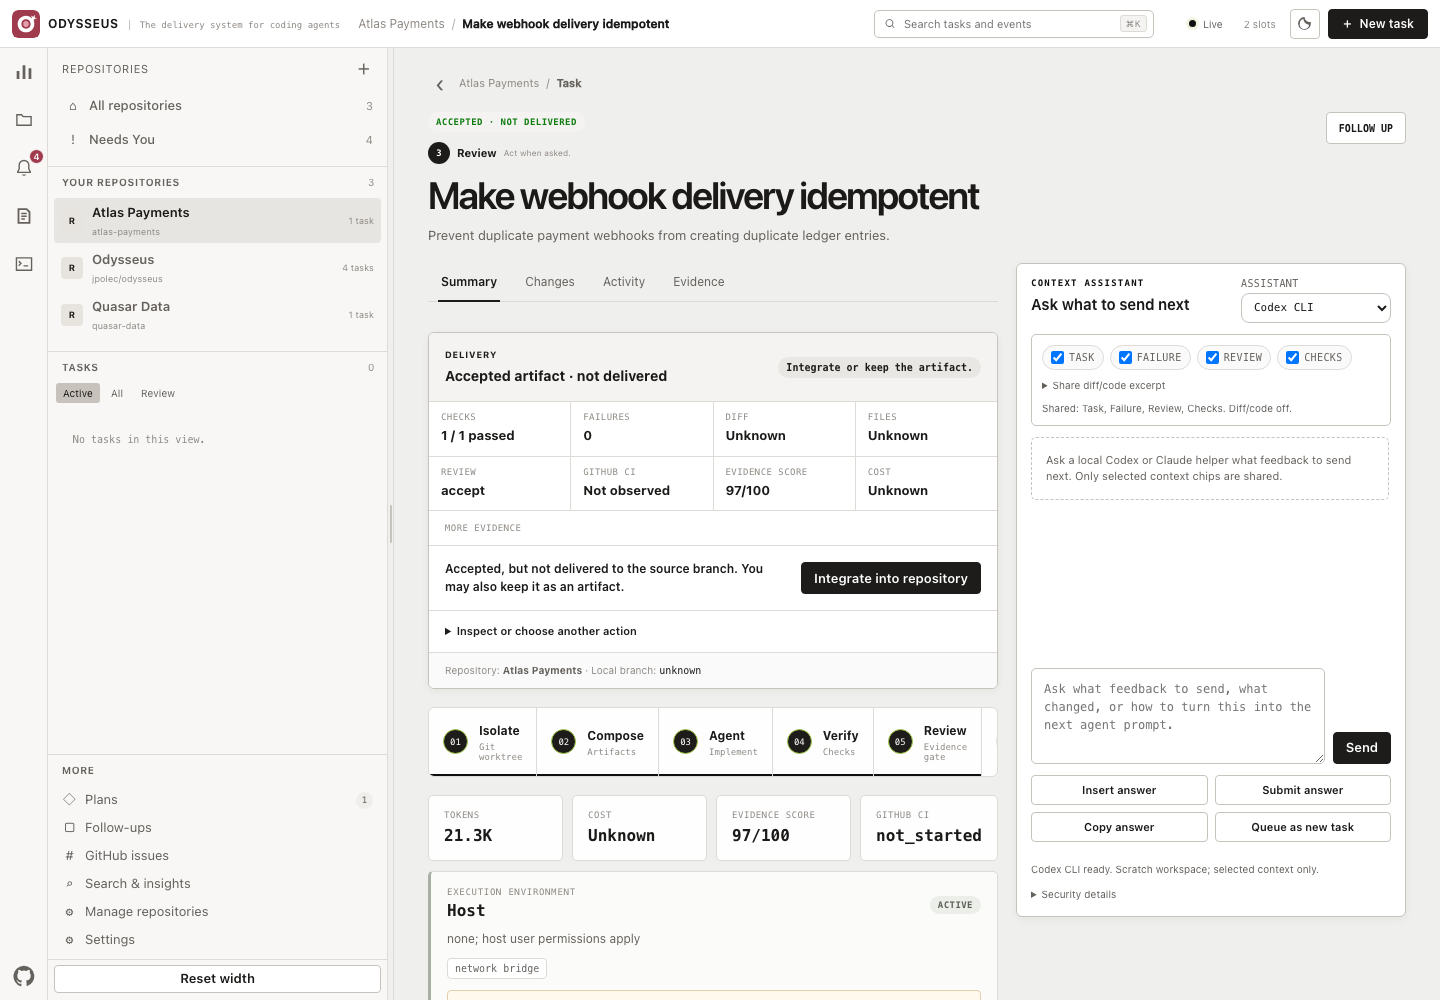
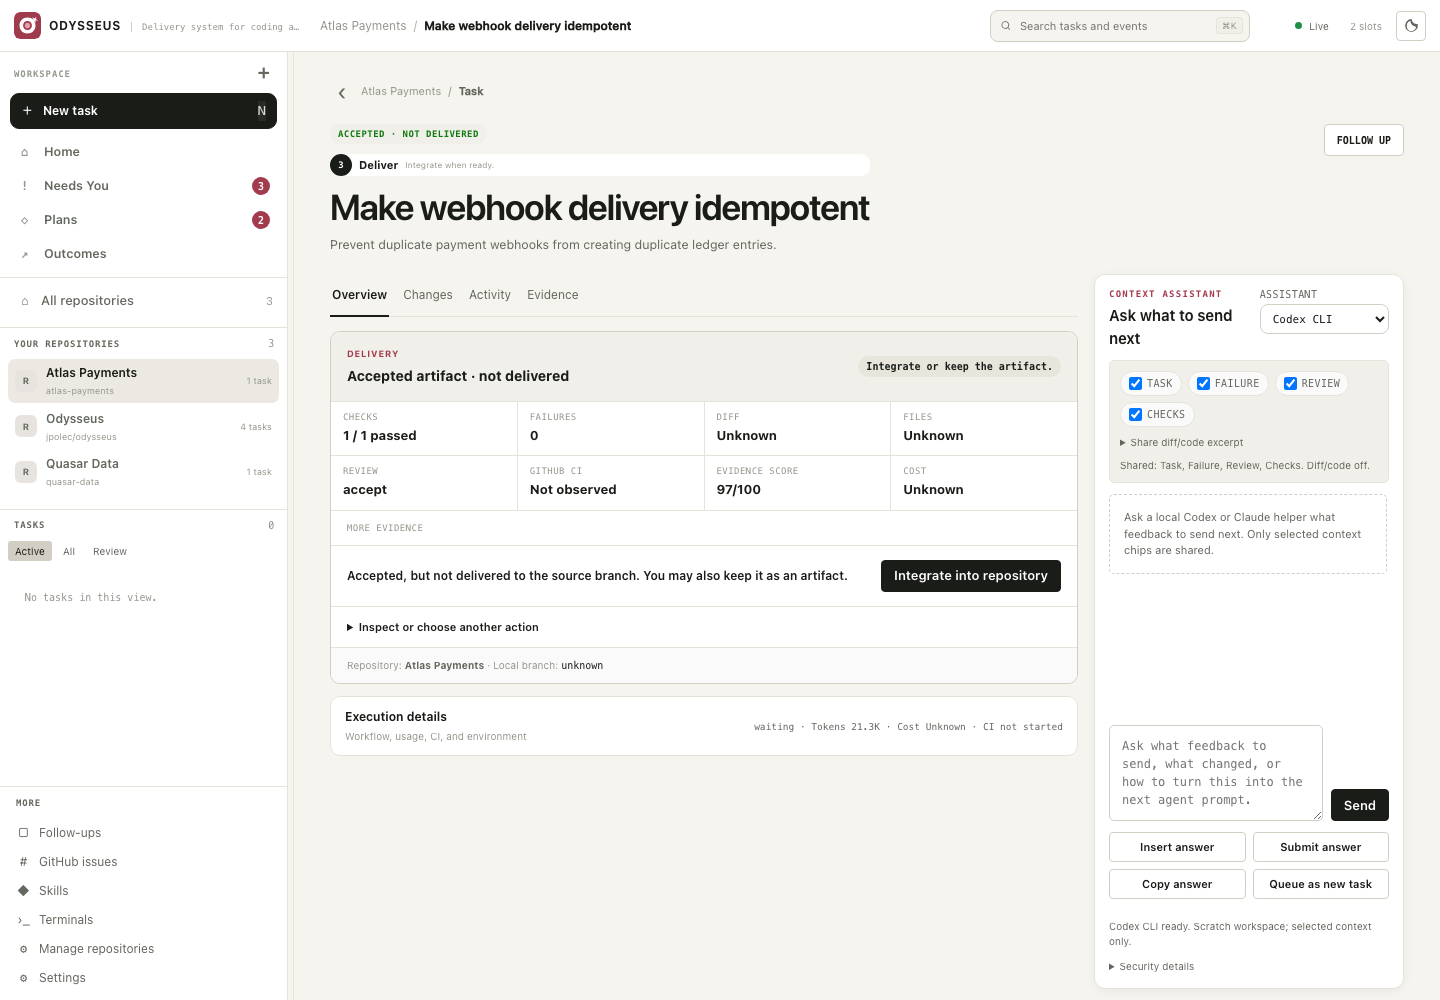
ui: publish the decision-first web experience

diff --git a/web/app.js b/web/app.js
@@ -784,11 +784,13 @@ function renderRepositoryStatus() {
   const known = new Set(nodes.flatMap((node) => [node.key, node.id].filter(Boolean)));
   const edgeCount = nodes.reduce((total, node) => total + (node.depends_on || []).filter((key) => known.has(key)).length, 0);
   $("#repositoryGraphCount").textContent = `${nodes.length} task${nodes.length === 1 ? "" : "s"} · ${edgeCount} edge${edgeCount === 1 ? "" : "s"}`;
-  $("#repositoryDependencyGraph").style.setProperty("--repo-graph-columns", String(maxDepth + 1));
-  $("#repositoryDependencyGraph").innerHTML = nodes.length ? nodes.map((node) => `
-    <button class="repository-graph-node repo-status-${node.status.toLowerCase()}" style="grid-column:${(depths.get(node.key) || 0) + 1}" ${node.id ? `data-status-run="${escapeHtml(node.id)}"` : "disabled"} type="button">
-      <span>${escapeHtml(node.status)}</span><strong>${escapeHtml(node.title)}</strong><small>${escapeHtml((node.depends_on || []).length ? `after ${node.depends_on.join(", ")}` : "root task")}</small>
-    </button>`).join("") : `<div class="empty-list">A task graph appears after you create a plan.</div>`;
+  $("#repositoryDependencyGraph").innerHTML = nodes.length ? Array.from({length: maxDepth + 1}, (_, depth) => `
+    <div class="repository-graph-column" aria-label="Dependency level ${depth + 1}">
+      ${nodes.filter((node) => (depths.get(node.key) || 0) === depth).map((node) => `
+        <button class="repository-graph-node repo-status-${node.status.toLowerCase()}" ${node.id ? `data-status-run="${escapeHtml(node.id)}"` : "disabled"} type="button">
+          <span>${escapeHtml(node.status)}</span><strong>${escapeHtml(node.title)}</strong><small>${escapeHtml((node.depends_on || []).length ? `after ${node.depends_on.join(", ")}` : "root task")}</small>
+        </button>`).join("")}
+    </div>`).join("") : `<div class="empty-list">A task graph appears after you create a plan.</div>`;
 
   const now = Date.now();
   const timeline = nodes.map((node) => {
@@ -807,7 +809,7 @@ function renderRepositoryStatus() {
   $("#repositoryGantt").innerHTML = timeline.slice(0, 18).map((node) => {
     const left = Math.max(0, Math.min(96, ((node.start - min) / range) * 100));
     const width = Math.max(4, Math.min(100 - left, ((node.end - node.start) / range) * 100));
-    return `<button class="gantt-row" ${node.id ? `data-status-run="${escapeHtml(node.id)}"` : "disabled"} type="button"><span title="${escapeHtml(node.title)}">${escapeHtml(node.title)}</span><i><b class="repo-status-${node.status.toLowerCase()}" style="left:${left.toFixed(2)}%;width:${width.toFixed(2)}%"></b></i><em>${escapeHtml(node.status)}</em></button>`;
+    return `<button class="gantt-row" ${node.id ? `data-status-run="${escapeHtml(node.id)}"` : "disabled"} type="button"><span title="${escapeHtml(node.title)}">${escapeHtml(node.title)}</span><svg class="gantt-track" viewBox="0 0 100 10" preserveAspectRatio="none" aria-hidden="true"><rect class="repo-status-${node.status.toLowerCase()}" x="${left.toFixed(2)}" y="0" width="${width.toFixed(2)}" height="10" rx="5"></rect></svg><em>${escapeHtml(node.status)}</em></button>`;
   }).join("") || `<div class="empty-list">The timeline appears after the first task.</div>`;
   $$('[data-status-run]').forEach((button) => button.addEventListener("click", () => selectRun(button.dataset.statusRun)));
 }
@@ -2333,16 +2335,17 @@ function renderEpicGraph(epic) {
   nodes.forEach(depthOf);
   const maxDepth = Math.max(...nodes.map((node) => depthMemo.get(node.key) || 0), 0);
   const edges = nodes.flatMap((node) => (node.depends_on || []).filter((parent) => keys.has(parent)).map((parent) => `${parent} -> ${node.key}`));
-  return `<div class="dag-graph" style="--dag-columns:${maxDepth + 1}" role="img" aria-label="Task dependency graph with ${nodes.length} tasks and ${edges.length} dependencies">
-    ${nodes.map((node) => {
-      const stateLabel = epicNodeState(node.run, node.task);
-      const parentRuns = (node.depends_on || []).map((key) => runByKey.get(key) || state.runs.find((run) => run.id === key)).filter(Boolean);
-      const waiting = stateLabel === "Blocked" ? parentRuns.find((run) => !["accepted", "pr_created", "completed"].includes(run.status)) : null;
-      return `<div class="dag-graph-node dag-state-${stateLabel.toLowerCase().replaceAll(" ", "-")}" style="grid-column:${(depthMemo.get(node.key) || 0) + 1}" tabindex="0">
-        <span>${escapeHtml(stateLabel)}</span><strong>${escapeHtml(node.title || node.key)}</strong><small>${escapeHtml(node.depends_on?.length ? `after ${node.depends_on.join(", ")}` : "root task")}</small>${waiting ? `<em>Waiting for ${escapeHtml(runTitle(waiting, waiting.id))}</em>` : ""}</div>`;
-    }).join("")}
-    ${edges.length ? `<p class="dag-edge-list">Edges: ${escapeHtml(edges.join("; "))}</p>` : `<p class="dag-edge-list">No dependencies.</p>`}
-  </div><ol class="dag-linear-fallback">${nodes.map((node) => `<li><strong>${escapeHtml(node.title || node.key)}</strong><span>${escapeHtml(epicNodeState(node.run, node.task))}</span><small>${escapeHtml(node.depends_on?.length ? `Depends on ${node.depends_on.join(", ")}` : "No dependencies")}</small></li>`).join("")}</ol>`;
+  return `<div class="dag-graph" role="img" aria-label="Task dependency graph with ${nodes.length} tasks and ${edges.length} dependencies">
+    ${Array.from({length: maxDepth + 1}, (_, depth) => `<div class="dag-column" aria-label="Dependency level ${depth + 1}">
+      ${nodes.filter((node) => (depthMemo.get(node.key) || 0) === depth).map((node) => {
+        const stateLabel = epicNodeState(node.run, node.task);
+        const parentRuns = (node.depends_on || []).map((key) => runByKey.get(key) || state.runs.find((run) => run.id === key)).filter(Boolean);
+        const waiting = stateLabel === "Blocked" ? parentRuns.find((run) => !["accepted", "pr_created", "completed"].includes(run.status)) : null;
+        return `<div class="dag-graph-node dag-state-${stateLabel.toLowerCase().replaceAll(" ", "-")}" tabindex="0">
+          <span>${escapeHtml(stateLabel)}</span><strong>${escapeHtml(node.title || node.key)}</strong><small>${escapeHtml(node.depends_on?.length ? `after ${node.depends_on.join(", ")}` : "root task")}</small>${waiting ? `<em>Waiting for ${escapeHtml(runTitle(waiting, waiting.id))}</em>` : ""}</div>`;
+      }).join("")}
+    </div>`).join("")}
+  </div>${edges.length ? `<p class="dag-edge-list">Edges: ${escapeHtml(edges.join("; "))}</p>` : `<p class="dag-edge-list">No dependencies.</p>`}<ol class="dag-linear-fallback">${nodes.map((node) => `<li><strong>${escapeHtml(node.title || node.key)}</strong><span>${escapeHtml(epicNodeState(node.run, node.task))}</span><small>${escapeHtml(node.depends_on?.length ? `Depends on ${node.depends_on.join(", ")}` : "No dependencies")}</small></li>`).join("")}</ol>`;
 }
 
 async function refreshEpics() {
@@ -2679,7 +2682,7 @@ function renderPortfolio(payload) {
   const failureTotal = failures.reduce((sum, row) => sum + Number(row.count || 0), 0);
   const failureMax = Math.max(1, ...failures.map((row) => Number(row.count || 0)));
   $("#portfolioFailureCount").textContent = `${failureTotal} failure${failureTotal === 1 ? "" : "s"}`;
-  $("#portfolioFailures").innerHTML = failures.length ? failures.map((row) => `<div class="failure-row"><div><strong>${escapeHtml(row.reason)}</strong><span>${escapeHtml(row.count)}</span></div><i><b style="width:${Math.round(Number(row.count || 0) / failureMax * 100)}%"></b></i></div>`).join("") : `<div class="portfolio-empty">No attributed failures in this window.</div>`;
+  $("#portfolioFailures").innerHTML = failures.length ? failures.map((row) => `<div class="failure-row"><div><strong>${escapeHtml(row.reason)}</strong><span>${escapeHtml(row.count)}</span></div><progress class="failure-meter" max="100" value="${Math.round(Number(row.count || 0) / failureMax * 100)}">${Math.round(Number(row.count || 0) / failureMax * 100)}%</progress></div>`).join("") : `<div class="portfolio-empty">No attributed failures in this window.</div>`;
   $("#portfolioBlockers").innerHTML = blocked.length ? blocked.map((item) => `<button class="portfolio-blocker" data-portfolio-run="${escapeHtml(item.run_id)}" type="button"><span class="mini-status status-${escapeHtml(item.status)}">${escapeHtml(item.status)}</span><strong>${escapeHtml(item.title)}</strong><small>${escapeHtml(item.reason)} · ${escapeHtml(projectName(projectById(item.project_id)) || "Repository")}</small><em>Open →</em></button>`).join("") : `<div class="portfolio-empty"><strong>Nothing is blocked.</strong><span>Odysseus will surface the next decision here.</span></div>`;
   $$('[data-portfolio-run]').forEach((button) => button.addEventListener("click", () => selectRun(button.dataset.portfolioRun)));
   $("#portfolioMethod").textContent = `Window starts ${new Date(payload.window?.starts_at).toLocaleString()}. ${payload.definitions?.autonomous_delivery_rate || ""} Cost: ${payload.definitions?.cost || "missing remains unknown"}.`;
@@ -3060,6 +3063,8 @@ async function runBrowserRegression() {
       const columns = getComputedStyle($(".repository-status-grid")).gridTemplateColumns.split(" ").map(Number.parseFloat);
       assert(columns.length >= 2 && columns[0] > columns[1], "dependency graph is wider than the Gantt timeline");
     }
+    assert(!$("#repositoryDependencyGraph [style]"), "repository graph does not depend on CSP-blocked inline styles");
+    assert($("#repositoryGantt .gantt-track"), "repository timeline uses CSP-safe SVG geometry");
   }
 
   $("#newTaskButton").click();
@@ -3163,6 +3168,7 @@ async function runBrowserRegression() {
   setView("epics");
   assert($("#epicsView").textContent.includes("Approve a graph before agents start."), "Plans concise header");
   assert($$("#epicList .epic-card").every((card) => card.querySelector(".epic-progress") && card.querySelector(".epic-graph-details")), "Plans expose compact progress and a drill-down graph");
+  assert(!$("#epicList [style]"), "Plan graphs do not depend on CSP-blocked inline styles");
   const proposedPlan = $$("#epicList .epic-card").find((card) => card.querySelector(".mini-status")?.textContent.trim() === "proposed");
   if (proposedPlan) assert(proposedPlan.querySelector(".epic-graph-details").open, "proposed plan opens the graph required for approval");
   setView("inbox");
@@ -3171,6 +3177,7 @@ async function runBrowserRegression() {
   await refreshInsights();
   assert($("#insightsView").querySelector("#portfolioKpis"), "Outcomes owns the engineering portfolio");
   assert($("#insightsView").textContent.includes("Delivery, not activity."), "Outcomes leads with delivered work");
+  assert(!$("#portfolioFailures [style]"), "failure attribution does not depend on CSP-blocked inline styles");
   assert($("#economicsFormula").textContent.includes("Expected cost"), "economics formula visible");
   assert($("#economicsFormula").textContent.includes("Sample"), "economics sample size visible");
   assert($("#economicsLeadTable").textContent.includes("Observed cost"), "lead economics table visible");

diff --git a/web/styles.css b/web/styles.css
@@ -245,16 +245,17 @@ pre { margin: 0; white-space: pre-wrap; }
 .dag { display: grid; gap: 8px; margin: 18px 0; padding: 14px; border: 1px solid var(--line); border-radius: 10px; background: linear-gradient(135deg, #f3f6ef, #f8faf5); }
 .dag-node { position: relative; display: flex; align-items: center; justify-content: space-between; gap: 18px; padding: 11px 12px 11px 15px; border: 1px solid var(--line); border-radius: 8px; background: var(--surface); box-shadow: 0 2px 6px rgba(29,38,24,.03); }.dag-node::before { position: absolute; top: 10px; bottom: 10px; left: 0; width: 3px; border-radius: 0 3px 3px 0; background: var(--accent-strong); content: ""; }
 .dag-node strong, .dag-node small { display: block; }.dag-node strong { font-size: 12px; }.dag-node small, .dag-node > span { margin-top: 3px; color: var(--faint); font: 9px var(--mono); }
-.dag-graph { display: grid; grid-template-columns: repeat(var(--dag-columns), minmax(128px,1fr)); gap: 10px 18px; margin: 16px 0; padding: 14px; border: 1px solid var(--line); border-radius: 6px; background: #fbfcfa; }
+.dag-graph { display: grid; grid-template-columns: repeat(auto-fit, minmax(160px,1fr)); gap: 18px; margin: 16px 0 8px; padding: 14px; border: 1px solid var(--line); border-radius: 6px; background: #fbfcfa; }
+.dag-column { display: grid; min-width: 0; align-content: start; gap: 10px; }
 .dag-graph-node { position: relative; min-width: 0; padding: 10px 11px; border: 1px solid var(--line); border-left: 3px solid var(--blue); border-radius: 5px; background: white; }
 .dag-graph-node::before { position: absolute; top: 50%; left: -19px; width: 18px; height: 1px; background: var(--line-bright); content: ""; }
-.dag-graph-node[style*="grid-column:1"]::before { display: none; }
+.dag-column:first-child .dag-graph-node::before { display: none; }
 .dag-graph-node span, .dag-graph-node strong, .dag-graph-node small, .dag-graph-node em { display: block; overflow: hidden; text-overflow: ellipsis; white-space: nowrap; }
 .dag-graph-node span { color: var(--faint); font: 700 9px var(--mono); text-transform: uppercase; }
 .dag-graph-node strong { margin-top: 4px; font-size: 12px; }
 .dag-graph-node small, .dag-graph-node em { margin-top: 4px; color: var(--muted); font-size: 10px; font-style: normal; }
 .dag-state-running { border-left-color: var(--cyan); }.dag-state-needs-you, .dag-state-blocked { border-left-color: var(--amber); }.dag-state-accepted { border-left-color: #107c10; }.dag-state-failed { border-left-color: var(--red); }
-.dag-edge-list { grid-column: 1 / -1; margin: 0; color: var(--faint); font: 9px/1.45 var(--mono); }
+.dag-edge-list { margin: 0; color: var(--faint); font: 9px/1.45 var(--mono); }
 .dag-linear-fallback { position: absolute; width: 1px; height: 1px; overflow: hidden; clip-path: inset(50%); }
 .evaluation-head, .evaluation-row { display: grid; align-items: center; gap: 12px; padding: 13px 15px; border-bottom: 1px solid var(--line); }
 .evaluation-head { grid-template-columns: 1fr auto; background: var(--surface-2); }.evaluation-head strong { font: 600 18px var(--mono); }.evaluation-head span { color: var(--muted); font: 10px var(--mono); }
@@ -795,11 +796,12 @@ dialog { border-radius: 8px; box-shadow: 0 16px 48px rgba(0,0,0,.24); }dialog fo
 .repository-status-grid article { min-width: 0; padding: 13px; border: 1px solid var(--line); border-radius: 5px; background: var(--surface-2); }
 .repository-dependency-graph {
   display: grid;
-  grid-template-columns: repeat(var(--repo-graph-columns,1),minmax(132px,1fr));
+  grid-template-columns: repeat(auto-fit,minmax(150px,1fr));
   gap: 8px;
   margin-top: 11px;
   overflow-x: auto;
 }
+.repository-graph-column { display: grid; min-width: 0; align-content: start; gap: 8px; }
 .repository-graph-node {
   min-width: 132px;
   min-height: 76px;
@@ -838,8 +840,8 @@ dialog { border-radius: 8px; box-shadow: 0 16px 48px rgba(0,0,0,.24); }dialog fo
 .gantt-row span,
 .gantt-row em { overflow: hidden; text-overflow: ellipsis; white-space: nowrap; }
 .gantt-row span { font-size: 11px; font-weight: 560; }
-.gantt-row i { position: relative; height: 10px; overflow: hidden; border-radius: 6px; background: var(--surface-3); }
-.gantt-row b { position: absolute; top: 0; bottom: 0; min-width: 7px; border-radius: 6px; }
+.gantt-track { width: 100%; height: 10px; overflow: hidden; border-radius: 6px; background: var(--surface-3); }
+.gantt-track rect { stroke: none; }
 .gantt-row em { color: var(--faint); font-size: 9px; font-style: normal; text-align: right; }
 .repo-status-delivered { border-color: #107c10; background: #107c10; }
 .repository-graph-node.repo-status-delivered { background: #f1faf1; }
@@ -853,6 +855,12 @@ dialog { border-radius: 8px; box-shadow: 0 16px 48px rgba(0,0,0,.24); }dialog fo
 .repository-graph-node.repo-status-review { background: #f7f3fb; }
 .repo-status-planned { border-color: #8a8886; background: #8a8886; }
 .repository-graph-node.repo-status-planned { background: #f6f6f6; }
+.gantt-track .repo-status-delivered { fill: #107c10; }
+.gantt-track .repo-status-accepted { fill: var(--accent); }
+.gantt-track .repo-status-running { fill: var(--cyan); }
+.gantt-track .repo-status-blocked { fill: var(--red); }
+.gantt-track .repo-status-review { fill: #8764b8; }
+.gantt-track .repo-status-planned { fill: #8a8886; }
 
 .skills-toolbar { display: flex; align-items: end; justify-content: space-between; gap: 18px; margin: -12px 0 18px; padding-bottom: 14px; border-bottom: 1px solid var(--line); }
 .skills-toolbar label { width: min(420px,100%); margin: 0; }
@@ -891,8 +899,10 @@ dialog { border-radius: 8px; box-shadow: 0 16px 48px rgba(0,0,0,.24); }dialog fo
 .failure-row > div { display: flex; justify-content: space-between; gap: 12px; margin-bottom: 6px; }
 .failure-row strong { font-size: 11px; font-weight: 560; }
 .failure-row span { color: var(--faint); font: 10px var(--mono); }
-.failure-row i { display: block; height: 5px; overflow: hidden; border-radius: 4px; background: var(--surface-3); }
-.failure-row b { display: block; height: 100%; border-radius: 4px; background: var(--red); }
+.failure-meter { display: block; width: 100%; height: 5px; overflow: hidden; border: 0; border-radius: 4px; background: var(--surface-3); appearance: none; }
+.failure-meter::-webkit-progress-bar { border-radius: 4px; background: var(--surface-3); }
+.failure-meter::-webkit-progress-value { border-radius: 4px; background: var(--red); }
+.failure-meter::-moz-progress-bar { border-radius: 4px; background: var(--red); }
 .portfolio-blockers { max-width: 1480px; margin: 0 auto; }
 .portfolio-blocker-list { display: grid; grid-template-columns: repeat(2,minmax(0,1fr)); gap: 8px; }
 .portfolio-blocker { position: relative; display: grid; grid-template-columns: auto minmax(0,1fr) auto; grid-template-rows: auto auto; align-items: center; gap: 3px 12px; min-width: 0; padding: 13px 14px; border: 1px solid var(--line); border-radius: 5px; color: inherit; background: var(--surface); text-align: left; }

diff --git a/scripts/demo.py b/scripts/demo.py
@@ -381,6 +381,53 @@ def seed(state_dir: Path, project: Path) -> RunStore:
             "operator",
             {"message": "Keep the browser retry contract visible and run the Chromium checkout scenario before review."},
         )
+    store.epics.create(
+        {
+            "title": "Durable release delivery",
+            "description": "Make release publication retry-safe and independently verifiable.",
+            "project_path": str(project),
+            "status": "proposed",
+            "evidence_class": "demo",
+            "plan": {
+                "summary": "Record publication intent before the external effect, then reconcile and verify the receipt.",
+                "tasks": [
+                    {
+                        "task_key": "release-intent",
+                        "title": "Persist publication intent",
+                        "task": "Add an idempotent durable publication request.",
+                        "role": "implementer",
+                        "depends_on": [],
+                        "parallelizable": True,
+                        "lane": "codex",
+                        "review_lane": "claude",
+                        "project_path": str(project),
+                    },
+                    {
+                        "task_key": "release-reconcile",
+                        "title": "Reconcile external receipt",
+                        "task": "Recover an interrupted publication without duplicating it.",
+                        "role": "implementer",
+                        "depends_on": ["release-intent"],
+                        "parallelizable": False,
+                        "lane": "codex",
+                        "review_lane": "claude",
+                        "project_path": str(project),
+                    },
+                    {
+                        "task_key": "release-proof",
+                        "title": "Verify release lineage",
+                        "task": "Validate the artifact and external receipt independently.",
+                        "role": "reviewer",
+                        "depends_on": ["release-reconcile"],
+                        "parallelizable": False,
+                        "lane": "claude",
+                        "review_lane": "codex",
+                        "project_path": str(project),
+                    },
+                ],
+            },
+        }
+    )
     return store
 
 

diff --git a/README.md b/README.md
@@ -92,8 +92,10 @@ is shipped and proven; planned architecture remains in the
 
 Click any image for the full-size interface.
 
-| Start with the outcome | Approve and follow the task graph |
+| Start from one clear outcome | Approve the execution graph |
 | --- | --- |
+| [![Odysseus Home](docs/screenshots/web-home.png)](docs/screenshots/web-home.png) | [![Odysseus Plans](docs/screenshots/web-plans.png)](docs/screenshots/web-plans.png) |
+| **Choose the repository and worker** | **Follow repository-wide delivery** |
 | [![New Task with Agent Auto](docs/screenshots/web-new-task.png)](docs/screenshots/web-new-task.png) | [![Repository task graph](docs/screenshots/web-project.png)](docs/screenshots/web-project.png) |
 | **Only decisions need you** | **Review evidence before delivery** |
 | [![Needs You queue](docs/screenshots/web-attention.png)](docs/screenshots/web-attention.png) | [![Evidence-backed review](docs/screenshots/web-task-review.png)](docs/screenshots/web-task-review.png) |
@@ -247,9 +249,10 @@ Reproduce the web screenshots from that exact state with local Chrome/Chromium:
 scripts/capture-web-screenshots.sh
 ```
 
-The script writes twelve real browser captures—First run, Engineering Portfolio,
-Repositories, Repository, Attention, Review, Delivery, Integration, CI repair,
-Context Receipt, New task, and Settings—to `docs/screenshots/` and
+The script writes fourteen real browser captures—First run, Home, Engineering
+Portfolio, Repositories, Repository, Plans, Attention, Review, Delivery,
+Integration, CI repair, Context Receipt, New task, and Settings—to
+`docs/screenshots/` and
 removes its temporary state when finished. Each URL selects the intended
 repository, task surface, or dialog, so filenames match the visible UI.
 
@@ -266,10 +269,22 @@ frames, and disposable Odysseus state.
 
 ### Start with the outcome
 
-New Task keeps the default path to three choices: the finished change, its
+Home asks only what should be delivered and where. Continue opens the same real
+Task flow; Plan first opens the approval-gated Planner flow.
+
+![Odysseus Home](docs/screenshots/web-home.png)
+
+New Task keeps the detailed path to three choices: the finished change, its
 repository, and **Agent: Auto**. Runtime and budget overrides stay collapsed.
 
 ![Odysseus New Task with Agent Auto](docs/screenshots/web-new-task.png)
+
+### Approve the graph before execution
+
+Plans keep proposed graphs open for review. Active plans collapse the graph
+behind a compact progress summary until an operator needs the dependency view.
+
+![Odysseus Plans](docs/screenshots/web-plans.png)
 
 ### One queue for human decisions
 

diff --git a/CHANGELOG.md b/CHANGELOG.md
@@ -14,7 +14,23 @@ Git; this file records observable operator and product changes.
 
 ## Unreleased
 
-No unreleased user-facing changes yet.
+- Reworked the web shell around four primary operator surfaces: Home, Needs
+  You, Plans, and Outcomes, while keeping repositories and task history in the
+  persistent sidebar.
+- Added a real outcome-first Home composer that hands work to the existing Task
+  or approval-gated Plan flow instead of introducing a second execution path.
+- Made task pages decision-first: Follow, Decide, and Deliver change with the
+  lifecycle, while workflow stages, usage, CI, and environment remain available
+  in one compact execution disclosure.
+- Made proposed Plan graphs visible for approval and active Plan graphs
+  collapsible behind live task, dependency, attention, and acceptance counts.
+- Moved the engineering portfolio to the Outcomes page so Home is no longer a
+  dashboard hidden inside a task composer.
+- Grouped Settings into execution, resource lifecycle, and optional assistant
+  sections with progressive disclosure.
+- Unified the visual system around a warm neutral canvas, black primary
+  actions, cherry identity, a resizable repository sidebar, and responsive
+  layouts verified in the real-browser regression suite.
 
 ## Released history
 

diff --git a/VERSION.md b/VERSION.md
@@ -23,6 +23,15 @@ state verification, supply-chain assets, and remote-access guardrails.
 the latest stable release unless the operator explicitly selects `--edge`, a
 version, or an exact ref.
 
+### Unreleased on `main`
+
+The current development checkout also contains the conversation-first web
+shell planned for the next release: a focused Home composer, one grouped Needs
+You queue, compact approval-gated Plans, a dedicated Outcomes portfolio, and a
+task decision surface that keeps execution telemetry folded until requested.
+These changes reuse the existing Task, Plan, evidence, CI, integration, Skill,
+ADR, and Settings APIs; the UI is not a separate system of record.
+
 ## Product contract
 
 Odysseus is a free, local-first delivery system for coding agents:
